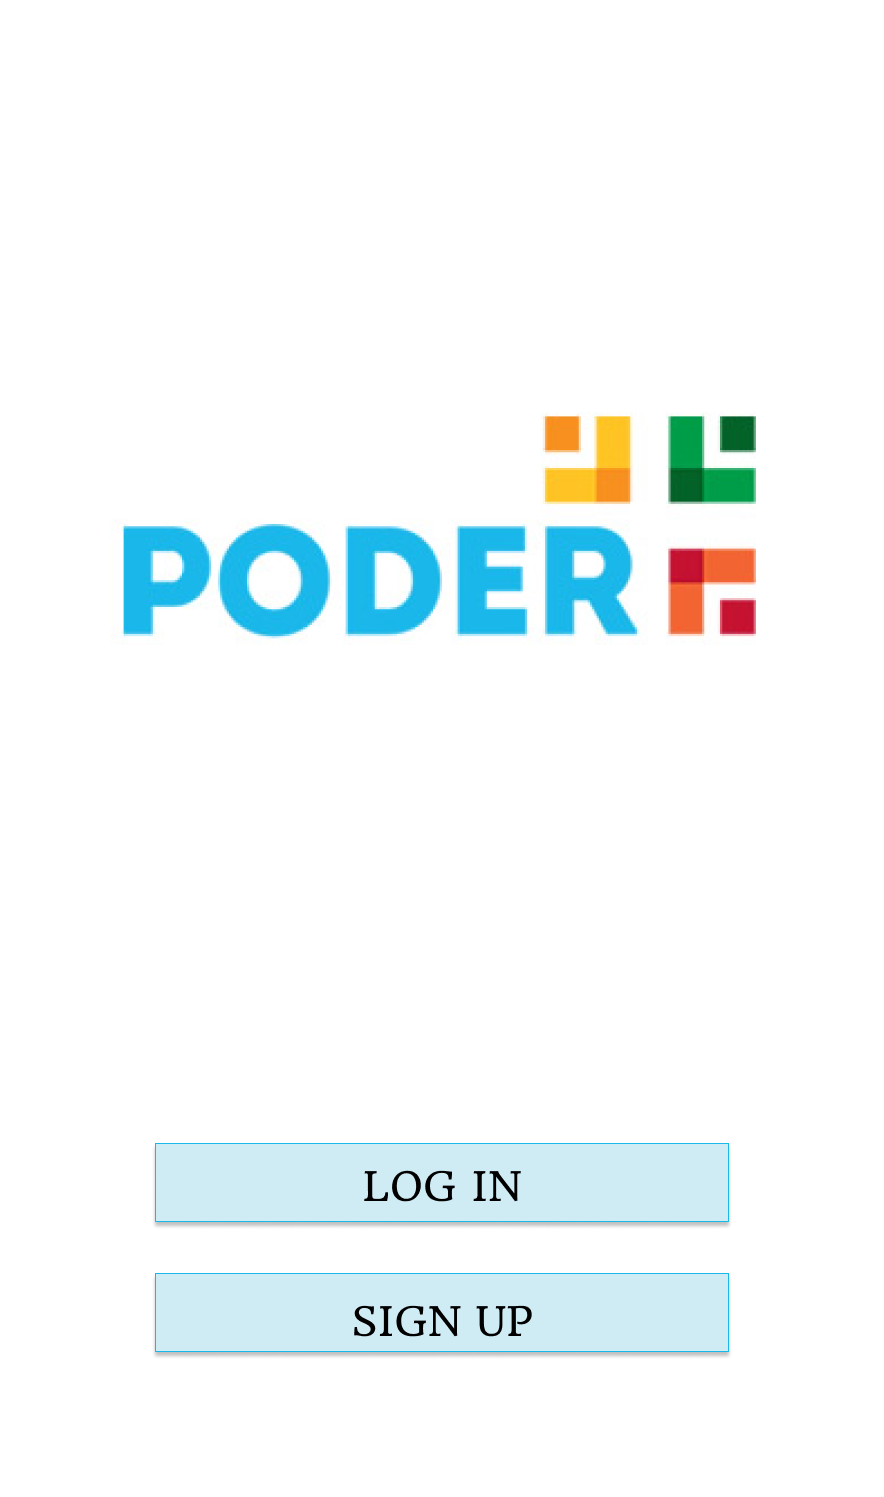
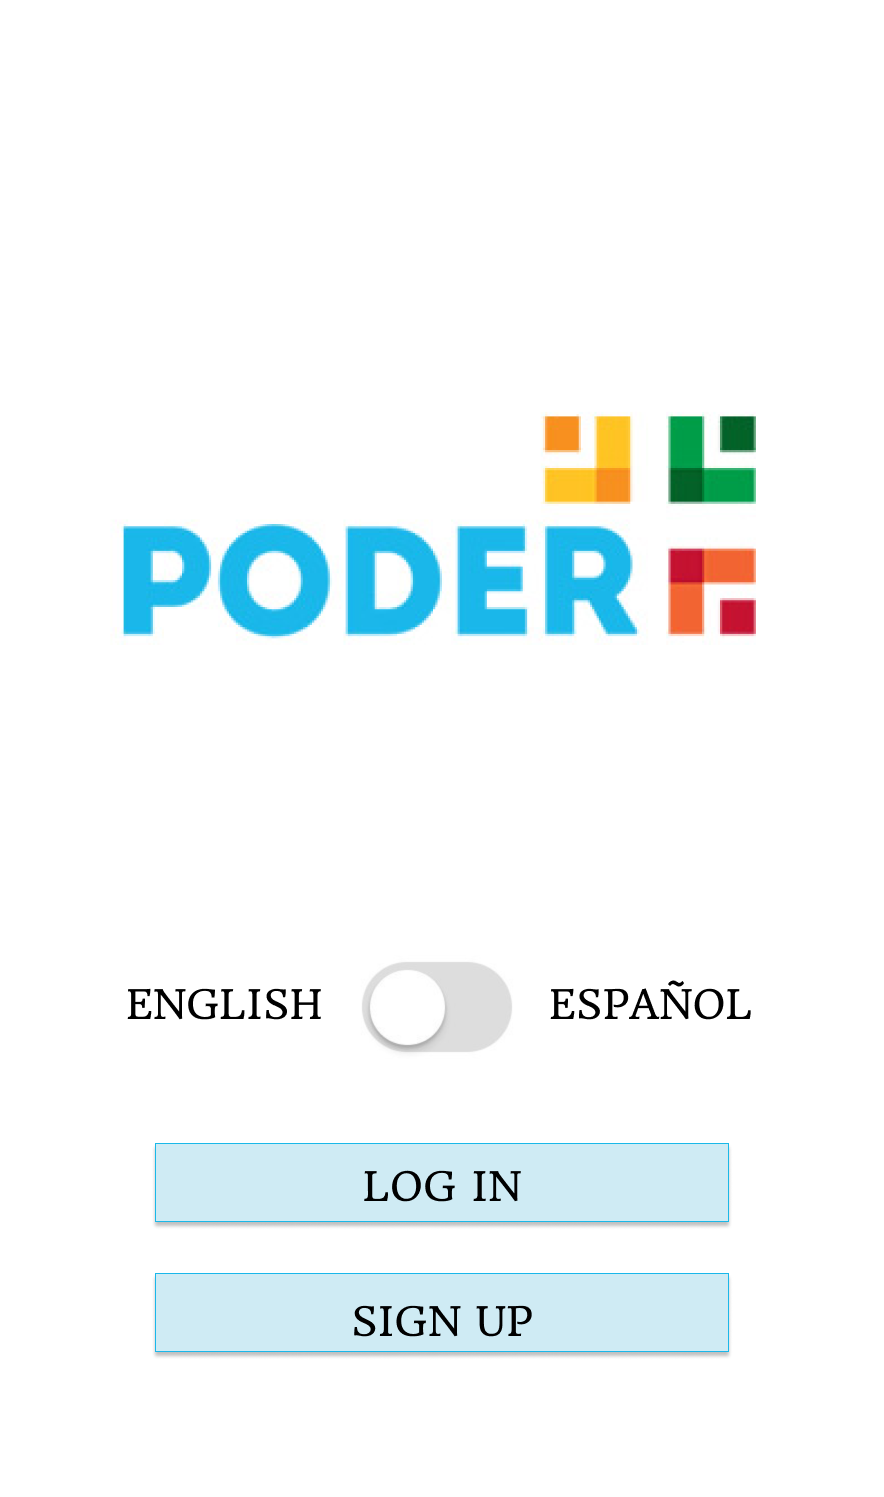
Added Homescreen

Changed region(s): [[0.3971, 0.6453, 0.5803, 0.7067], [0.6109, 0.6453, 0.8552, 0.676], [0.1527, 0.6453, 0.3665, 0.676]]

diff --git a/PODER/app/src/main/java/com/codeforgood/poder/HomePage.java b/PODER/app/src/main/java/com/codeforgood/poder/HomePage.java
@@ -1,0 +1,28 @@
+package com.codeforgood.poder;
+
+import androidx.appcompat.app.AppCompatActivity;
+
+import android.content.Intent;
+import android.os.Bundle;
+import android.view.View;
+import android.widget.Button;
+
+import com.codeforgood.poder.ui.login.LoginActivity;
+
+public class HomePage extends AppCompatActivity {
+
+    @Override
+    protected void onCreate(Bundle savedInstanceState) {
+        super.onCreate(savedInstanceState);
+        setContentView(R.layout.activity_home_page);
+
+        final Button test = (Button)findViewById(R.id.getstarted);
+
+        test.setOnClickListener(new View.OnClickListener() {
+            public void onClick(View v) {
+                Intent intent = new Intent(HomePage.this, LoginActivity.class);
+                startActivity(intent);
+            }
+        });
+    }
+}
